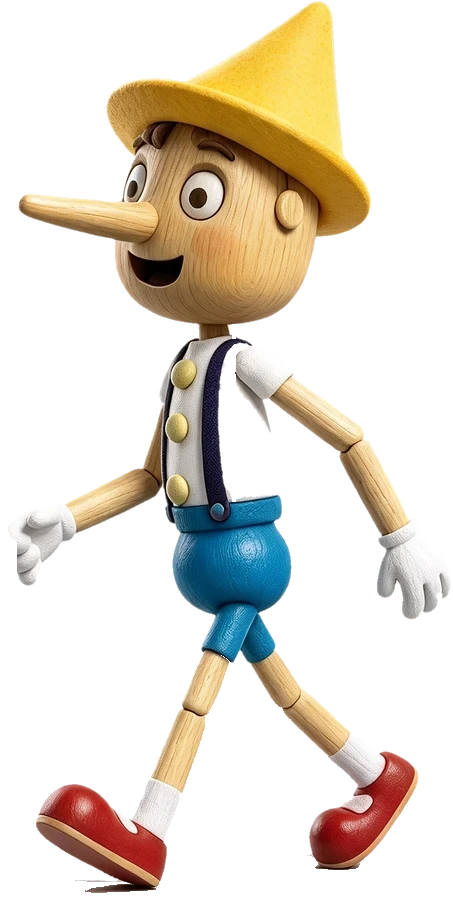
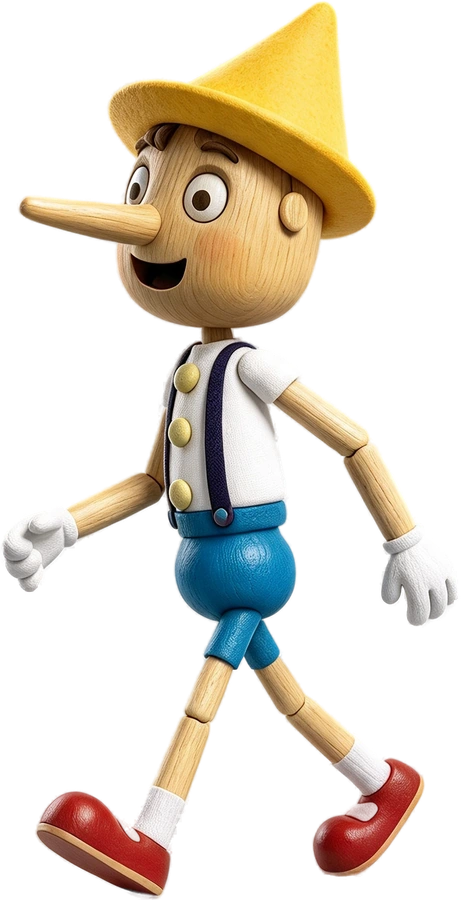
cumple34: Pinocho recortado con traje blanco intacto en todas las escenas (#17)
Claude-Session: https://claude.ai/code/session_01QCzm7MBr5bPFyTPDWExmNV

diff --git a/eventos/cumple34/index.html b/eventos/cumple34/index.html
@@ -369,9 +369,9 @@ body.conf .stage .ribbon{top:max(52px,6vh)}
 .act-shrek img.on{display:block}
 .act-pino{width:calc(var(--u,6px)*30);height:calc(var(--u,6px)*46)}
 .pp{position:absolute;left:50%;bottom:0;height:100%;translate:-50% 0;display:none}
-.pp.pw{aspect-ratio:453/900;transform:scaleX(-1)}
-.pp.pr{aspect-ratio:594/900;transform:scaleX(-1)}
-.pp.ps{aspect-ratio:657/900}
+.pp.pw{aspect-ratio:461/900;transform:scaleX(-1)}
+.pp.pr{aspect-ratio:602/900;transform:scaleX(-1)}
+.pp.ps{aspect-ratio:662/900}
 .pp img{position:absolute;inset:0;width:100%;height:100%;max-width:none;display:block;translate:none}
 .act-pino[data-pose=walk] .pw,.act-pino[data-pose=scare] .ps,.act-pino[data-pose=run] .pr{display:block}
 /* títere de papel: el cuerpo y cada pierna son recortes que giran desde la cadera, cuadro por cuadro */
